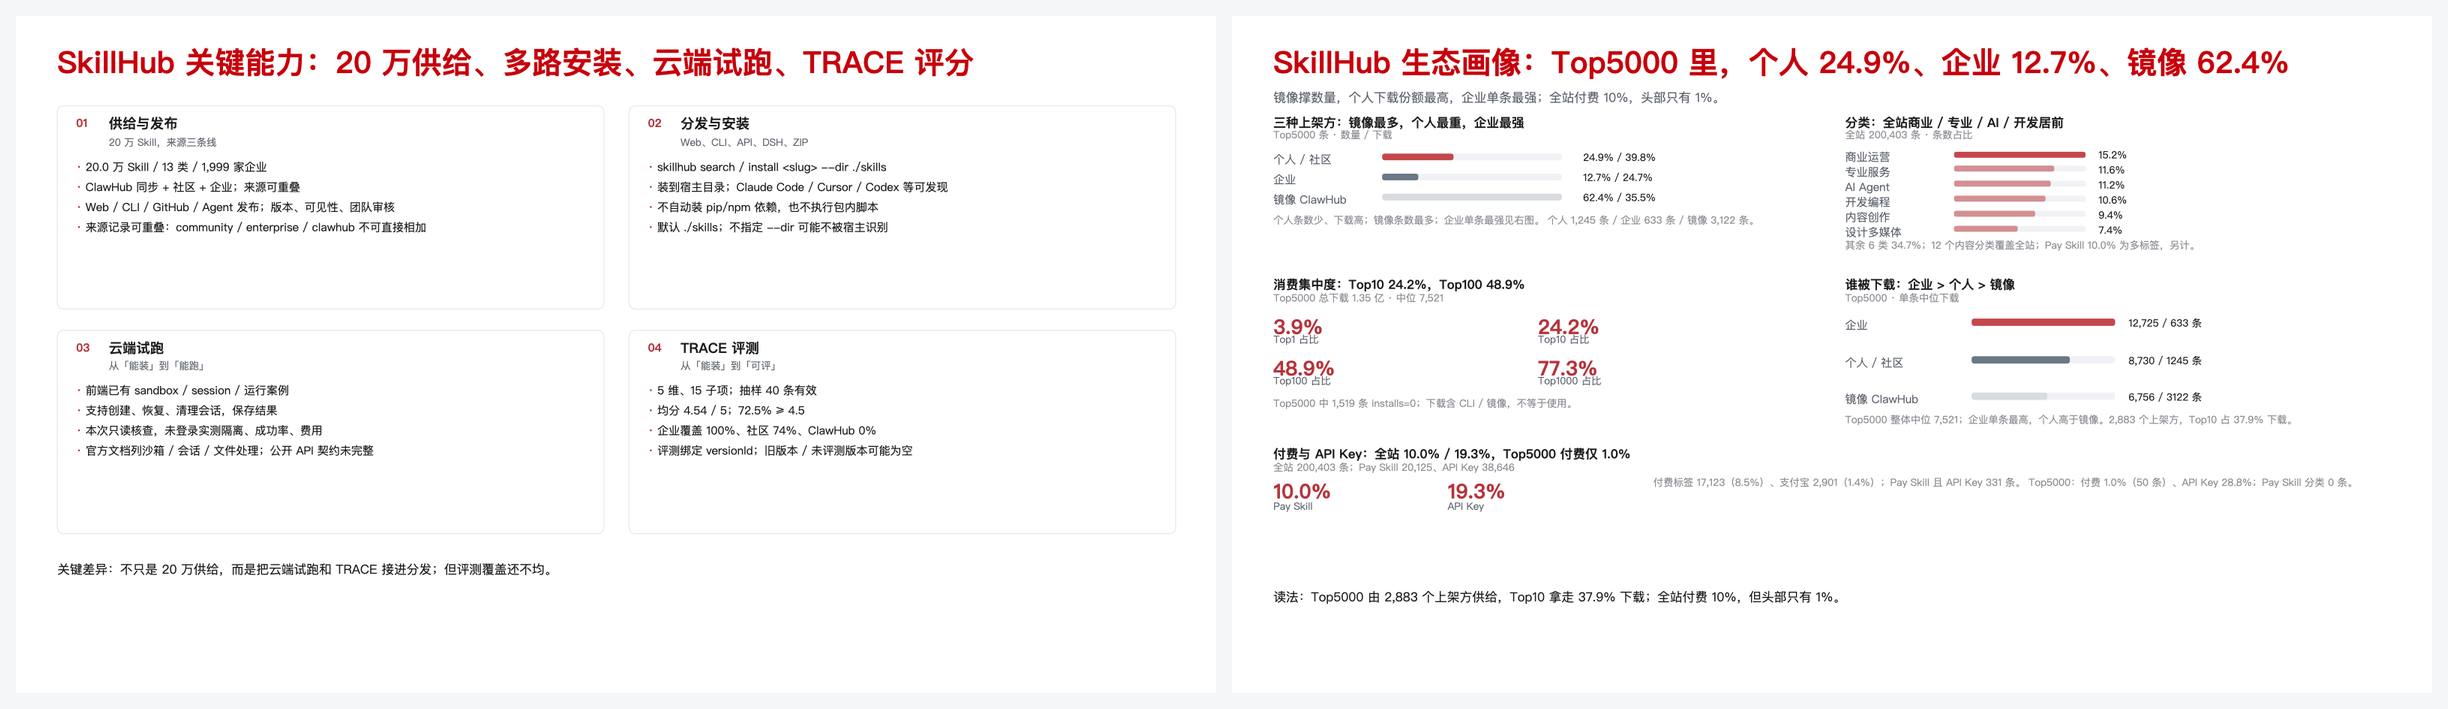
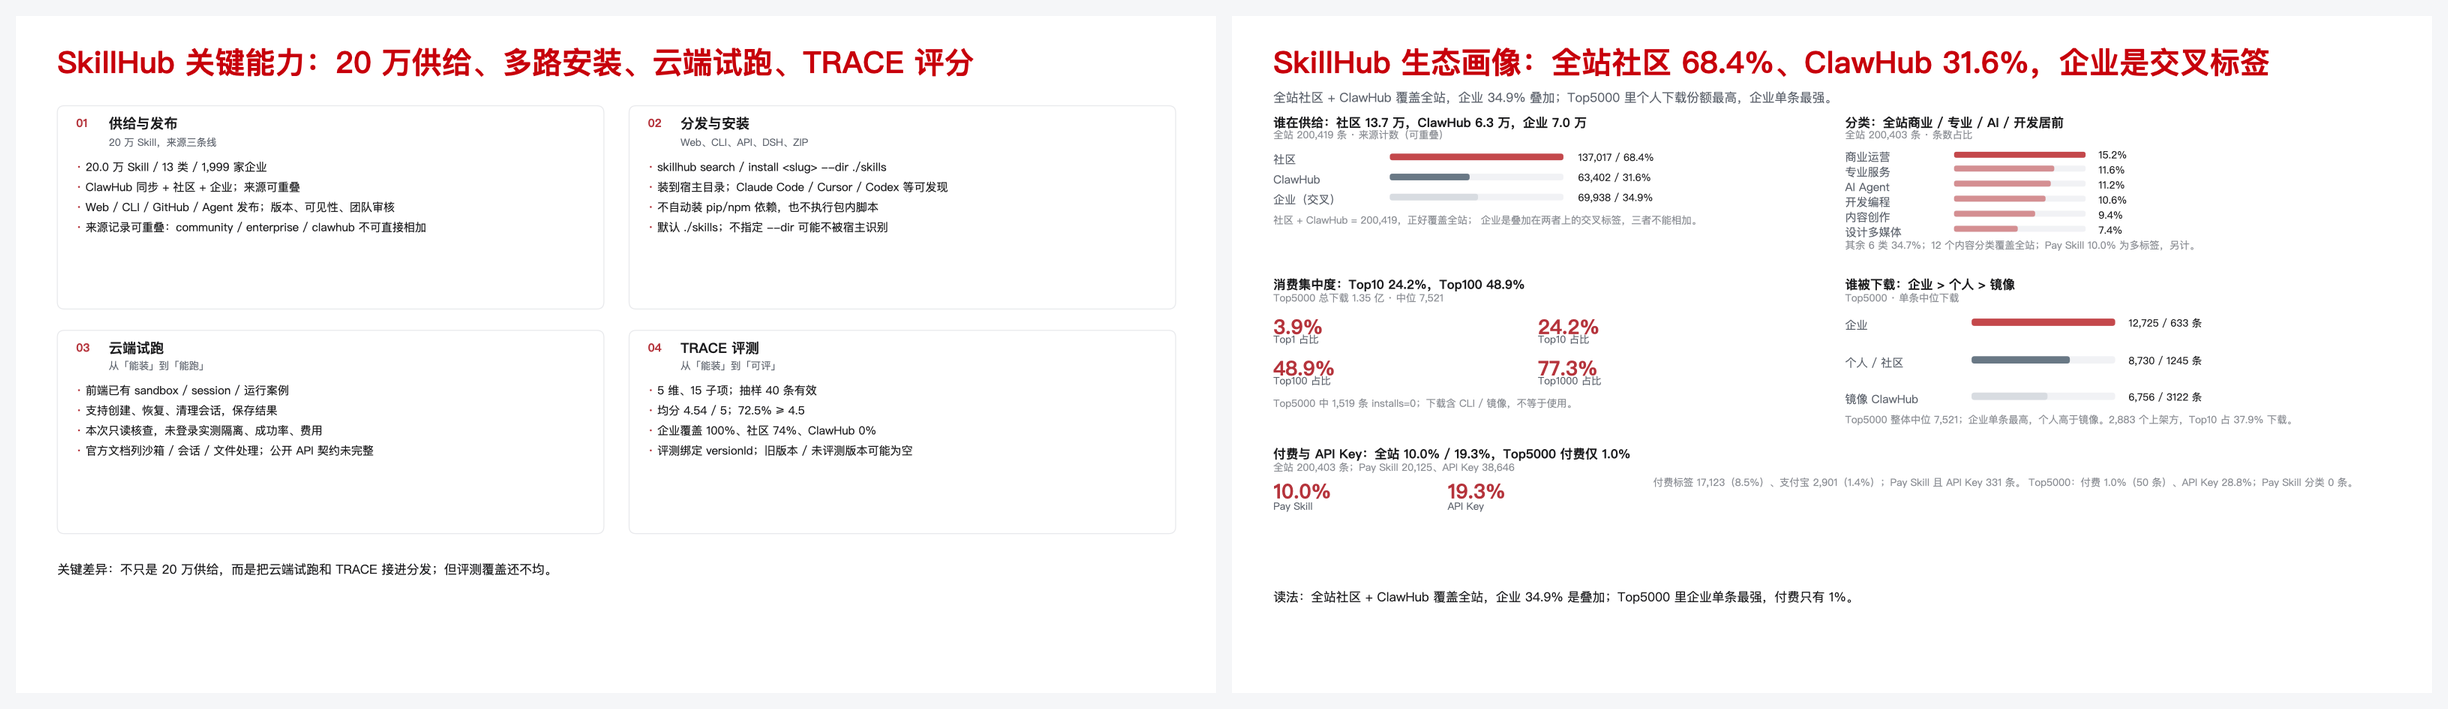
Use full-site supply counts for SkillHub ecosystem

Changed region(s): [[0.4967, 0.0621, 0.9314, 0.3413], [0.5278, 0.8378, 0.7451, 0.8688]]

diff --git a/rebuild_skillhub.py b/rebuild_skillhub.py
@@ -93,25 +93,23 @@ def build_capabilities(s, W, H):
 
 def build_ecosystem(s, W, H):
     add_text(s, 0.035 * W, 0.040 * H, 0.93 * W, 0.055 * H,
-             "SkillHub 生态画像：Top5000 里，个人 24.9%、企业 12.7%、镜像 62.4%",
+             "SkillHub 生态画像：全站社区 68.4%、ClawHub 31.6%，企业是交叉标签",
              24, TITLE_RED, True)
     add_text(s, 0.035 * W, 0.108 * H, 0.90 * W, 0.024 * H,
-             "镜像撑数量，个人下载份额最高，企业单条最强；全站付费 10%，头部只有 1%。", 10, GRAY, False)
+             "全站社区 + ClawHub 覆盖全站，企业 34.9% 叠加；Top5000 里个人下载份额最高，企业单条最强。", 10, GRAY, False)
 
-    # 01 who publishes Top5000: individual / enterprise / mirror
-    add_text(s, 0.035 * W, 0.145 * H, 0.44 * W, 0.024 * H, "三种上架方：镜像最多，个人最重，企业最强", 10.5, INK, True)
-    add_text(s, 0.035 * W, 0.168 * H, 0.44 * W, 0.020 * H, "Top5000 条 · 数量 / 下载", 8.5, LIGHT_GRAY, False)
-    src = [("个人 / 社区", 24.9, "39.8%", RED),
-           ("企业", 12.7, "24.7%", SLATE),
-           ("镜像 ClawHub", 62.4, "35.5%", RGBColor(0xCF, 0xD4, 0xDA))]
-    for i, (name, pct, dl, color) in enumerate(src):
+    # 01 who supplies (full site; enterprise is an overlay)
+    add_text(s, 0.035 * W, 0.145 * H, 0.44 * W, 0.024 * H, "谁在供给：社区 13.7 万，ClawHub 6.3 万，企业 7.0 万", 10.5, INK, True)
+    add_text(s, 0.035 * W, 0.168 * H, 0.44 * W, 0.020 * H, "全站 200,419 条 · 来源计数（可重叠）", 8.5, LIGHT_GRAY, False)
+    src = [("社区", 137017, 68.4, RED), ("ClawHub", 63402, 31.6, SLATE), ("企业（交叉）", 69938, 34.9, RGBColor(0xCF, 0xD4, 0xDA))]
+    for i, (name, count, pct, color) in enumerate(src):
         y = 0.200 * H + i * 0.030 * H
-        add_text(s, 0.035 * W, y, 0.085 * W, 0.020 * H, name, 9.5, GRAY, False)
-        add_bar(s, 0.125 * W, y + 0.004 * H, 0.150 * W, 0.010 * H, pct / 62.4, color)
-        add_text(s, 0.292 * W, y, 0.160 * W, 0.020 * H, f"{pct}% / {dl}", 8.5, INK, False)
+        add_text(s, 0.035 * W, y, 0.095 * W, 0.020 * H, name, 9.5, GRAY, False)
+        add_bar(s, 0.132 * W, y + 0.004 * H, 0.145 * W, 0.010 * H, pct / 68.4, color)
+        add_text(s, 0.288 * W, y, 0.165 * W, 0.020 * H, f"{count:,} / {pct}%", 8.5, INK, False)
     add_text(s, 0.035 * W, 0.295 * H, 0.44 * W, 0.048 * H,
-             "个人条数少、下载高；镜像条数最多；企业单条最强见右图。\n"
-             "个人 1,245 条 / 企业 633 条 / 镜像 3,122 条。", 8.5, LIGHT_GRAY, False, spacing=1.1)
+             "社区 + ClawHub = 200,419，正好覆盖全站；\n"
+             "企业是叠加在两者上的交叉标签，三者不能相加。", 8.5, LIGHT_GRAY, False, spacing=1.1)
 
     # 02 category (full site)
     add_text(s, 0.510 * W, 0.145 * H, 0.44 * W, 0.024 * H, "分类：全站商业 / 专业 / AI / 开发居前", 10.5, INK, True)
@@ -165,7 +163,7 @@ def build_ecosystem(s, W, H):
              8.5, LIGHT_GRAY, False, spacing=1.1)
 
     add_text(s, 0.035 * W, 0.845 * H, 0.93 * W, 0.028 * H,
-             "读法：Top5000 由 2,883 个上架方供给，Top10 拿走 37.9% 下载；全站付费 10%，但头部只有 1%。", 10, INK, False)
+             "读法：全站社区 + ClawHub 覆盖全站，企业 34.9% 是叠加；Top5000 里企业单条最强，付费只有 1%。", 10, INK, False)
 
 
 def main():

diff --git a/skill-final-v1-manifest.md b/skill-final-v1-manifest.md
@@ -14,7 +14,7 @@
 - **Skill 资产生命周期页重做为第 1 页**：生产 / 分发 / 安装 / 使用四段，每段给出可执行动作、检查点与产物，并保留闭环回线；结合智果园示例（AI 资产广场上架分发、CodeArts Agent 安装使用）。原第 5 页删除，总页数 19。
 - **第一页按 `skill-lifecycle-summary.md` 的“关键动作”重新核对**：每段只把“动作”放入动作层，检查点与产物另列；生产段把“定任务 / 写方法 / 配资源并验证”拆开，边界放入“定任务”和检查点，样例与评测记录放入产物，不再把“留样例和边界”当作与前两步并列的第三个动作。动作层补入 `$skill-creator`、Git/ZIP、`npx skills add`、`/pdf-processing` 等可执行动作；`$skill-creator` 作为一条起稿路径，不写成唯一方式。
 - **最后两页按统一版式重排**：第 18 页先总结阿里/腾讯两条商业化路径（对比表 + 三点判断），第 19 页给出智果园的四条启示、首期路径与验收口径。
-- **SkillHub 从 3 页合并为 2 页**：第 3 页“关键能力”（供给与发布 / 分发安装 / 云端试跑 / TRACE）；第 4 页“生态画像”：供给/消费/Top5000 上架方与谁被下载用 Top5000，分类与 PaySkill/API Key 用全站；Top5000 为 2026-10-20 下载降序样本，不等于全站。
+- **SkillHub 从 3 页合并为 2 页**：第 3 页“关键能力”（供给与发布 / 分发安装 / 云端试跑 / TRACE）；第 4 页“生态画像”：供给/分类/付费看全站，消费与“谁被下载”中位看 Top5000；Top5000 为 2026-10-20 下载降序样本，不等于全站。
 - **魔搭合并为一页**：上半部分是“关键能力洞察”（发布 / 使用 / 试运行），下半部分是“生态画像”的 4 项对比：谁在供给 / 类目分布 / 消费集中度 / 谁被下载；30.9% 只在供给卡里出现，不再单独成块；删掉资产定位与结构、结论。
 - **标题已回退**：恢复上一版标题；第一页的动作 / 检查 / 产物内容保留。
 - 例外：KPI 数字保留展示字号；6.5–9.5 pt 的图注、单位、表注保留原字号，避免密集卡片溢出。若要求所有文字严格 10/12，需要重排或拆页。
@@ -26,7 +26,7 @@
 | 01 | 00 Skill 资产生命周期（开篇） | Skill 资产生命周期：生产 → 分发 → 安装 → 使用 | `skill-asset-lifecycle.pptx` 内容重做，结合智果园 / CodeArts Agent 示例 |
 | 02 | 01 魔搭平台调研 | 魔搭 Skill 关键能力：发布两步、安装四路，试运行和原创供给都还薄 | `modelscope-skills-center.pptx` 内容重做 + 一手 API/页面核查（1/1） |
 | 03 | 02 SkillHub 平台调研 | SkillHub 关键能力：20 万供给、多路安装、云端试跑、TRACE 评分 | `skillhub-insights-v1.pptx` + `skillhub-eval-onepage.pptx`（重做，1/2） |
-| 04 | 02 SkillHub 平台调研 | SkillHub 生态画像：Top5000 里，个人 24.9%、企业 12.7%、镜像 62.4% | `skillhub-insights.pptx` / `skillhub-insights-v1.pptx` + 全站分类/付费与 Top5000 上架方复算（重做，2/2） |
+| 04 | 02 SkillHub 平台调研 | SkillHub 生态画像：全站社区 68.4%、ClawHub 31.6%，企业是交叉标签 | `skillhub-insights.pptx` / `skillhub-insights-v1.pptx` + 全站来源/分类/付费与 Top5000 中位复算（重做，2/2） |
 | 05 | 03 Skill 平台总结 | 从魔搭、SkillHub 到智果园：Skill 资产平台的四个必答题 | `zhiguoyuan-skill-asset-onepage.pptx`（1/1） |
 | 06 | 04 腾讯 SkillPay 商业化 | SkillHub 已有按次收费供给，平台暂不收技术服务费 | `skillhub/output/skillhub-skillpay-commercialization-v1.pptx`（1/2） |
 | 07 | 04 腾讯 SkillPay 商业化 | 微信 SkillPay 将微信订单接入 Agent，商户验付后履约 | `skillhub/output/skillhub-skillpay-commercialization-v1.pptx`（2/2） |

diff --git a/references/skillhub-two-page-research.md b/references/skillhub-two-page-research.md
@@ -6,7 +6,7 @@
 
 ## 一句话结论
 
-SkillHub 的差异不只是“20 万 Skill”，而是把**供给、安装、云端试跑、TRACE 评测**接成一条链；但 Top5000 头部样本显示：**ClawHub 撑数量，社区/企业单条更强；全站付费 10%、API Key 19%，但 Top5000 付费只有 1%。**
+SkillHub 的差异不只是“20 万 Skill”，而是把**供给、安装、云端试跑、TRACE 评测**接成一条链；全站 **社区 68.4%、ClawHub 31.6%**，企业是交叉标签；Top5000 里 **企业单条最强**，付费只有 1%。
 
 ## A. 关键能力（第 3 页）
 
@@ -54,16 +54,17 @@ SkillHub 的差异不只是“20 万 Skill”，而是把**供给、安装、云
 - Top1 占 **3.9%**，Top10 **24.2%**，Top100 **48.9%**，Top1000 **77.3%**。
 - 5000 条中 **1,519 条 `installs=0`**；`downloads` 含 CLI/镜像拉取，不等于安装/使用。
 
-### 1. Top5000 由谁上架（个人 / 企业 / 镜像）
-| 类型 | 条数 | 条数占比 | 下载占比 | 中位下载 |
-|---|---:|---:|---:|---:|
-| 个人 / 社区 | 1,245 | 24.9% | **39.8%** | 8,730 |
-| 企业 | 633 | 12.7% | 24.7% | **12,725** |
-| 镜像 ClawHub | 3,122 | 62.4% | 35.5% | 6,756 |
+### 1. 谁在供给（全站）
+| 来源 | 条数 | 占全站 200,419 |
+|---|---:|---:|
+| 社区 | 137,017 | **68.4%** |
+| ClawHub | 63,402 | **31.6%** |
+| 企业（交叉标签） | 69,938 | 34.9% |
 
-- 个人/社区条数少、下载高；企业单条最强；镜像条数最多、单条最弱。
-- 个人 = 社区作者直接发布；企业 = 企业/组织账号；镜像 = ClawHub 同步。
-- 来源：[Top5000 API](https://api.skillhub.cn/api/skills?pageSize=100&sortBy=downloads&order=desc&page=1)。
+- **社区 + ClawHub = 200,419，正好覆盖全站**；两者是互斥的来源口径。
+- **企业是叠加在两者上的交叉标签**：企业发布的 Skill 同时计入社区或 ClawHub，所以三者不能相加成 100%。
+- 这纠正了 Top5000 的头部偏差：Top5000 里镜像 ClawHub 占 62.4%，但全站 ClawHub 只占 31.6%；全站仍是社区为主。
+- 来源：[公开列表 API](https://api.skillhub.cn/api/skills?pageSize=1&page=1)（`source=community` / `source=clawhub` / `source=enterprise`）。
 
 ### 2. 分类占比（全站，不用 Top5000）
 - 全站 **200,403 条**；12 个内容分类合计 200,393 条，另有 10 条未挂类目。
